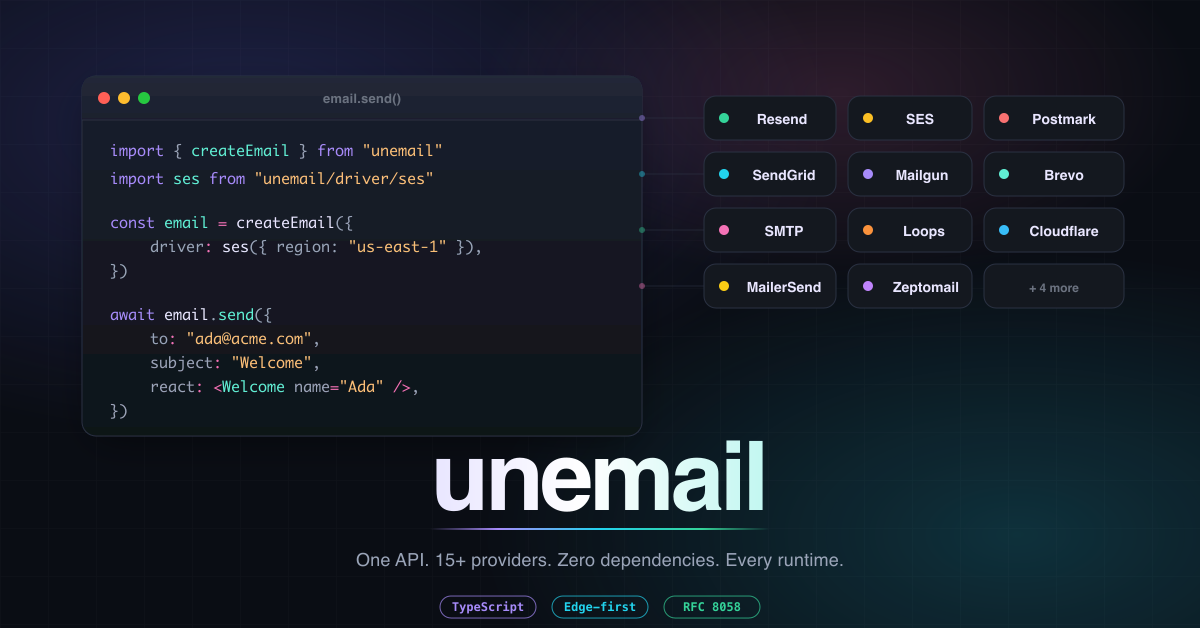
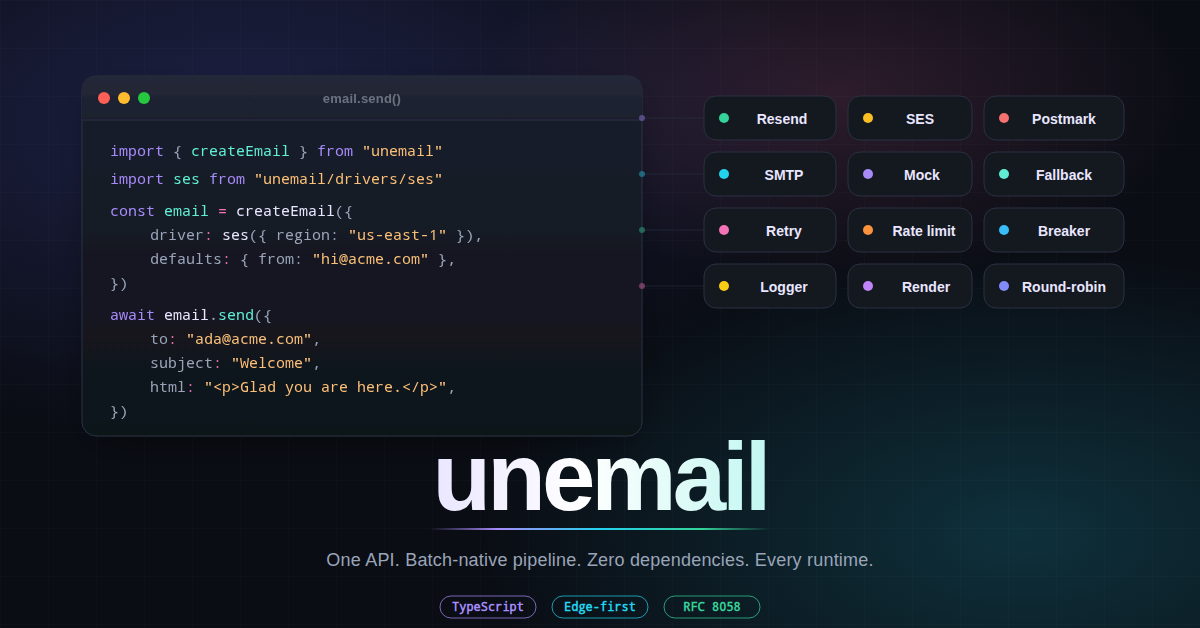
chore: bring the repo's own artifacts up to v1
The cover art is the first thing anyone sees on the README and on npm, and
it still advertised 0.x: it imported from `unemail/driver/ses` (singular),
passed the removed `react:` field, listed eight providers this release does
not ship, and claimed "15+ providers". The snippet is now the v1 API and
would actually run — including `defaults: { from }`, which v1 requires
somewhere. The tiles are the twelve things you can import today, and the
tagline says what the release is rather than how many providers it counts.
cover.png is re-rendered from the SVG rather than left behind at 0.x.

`playground/` went with the 0.x tree, so the oxlint and oxfmt ignore
entries pointed at nothing.

README had no route to docs/architecture.md or docs/drivers.md.

Dev dependencies: typescript 6.0.3 → 7.0.2, which also settles a real
mismatch — the repo declared TS 6 while typechecking with tsgo 7. Also
bumpp 11 → 12, oxfmt 0.55 → 0.66 (reformats nothing), and a newer
native-preview build, re-pinned exactly: a caret range on a prerelease
resolves to a different nightly on a fresh install and the typechecker
stops being reproducible.

Verified after the bumps: lint, format, typecheck, 190 tests, build with
every .d.mts present, bundle budgets, version consistency.

Claude-Session: https://claude.ai/code/session_01GQAPDWLnDrdYHKhou3Ntvb

diff --git a/README.md b/README.md
@@ -360,6 +360,14 @@ list of any of those.
 SMTP needs `node:net` and `node:tls`. Everything else is `fetch` and Web
 Crypto.
 
+## Docs
+
+- [Architecture](./docs/architecture.md) — the pipeline, and why the unit of
+  work is a list
+- [Drivers](./docs/drivers.md) — every option, provider quirks, capability
+  matrix
+- [Migration](./MIGRATION.md) — upgrading from 0.x
+
 ## Upgrading from 0.x
 
 v1 is a rewrite. See [MIGRATION.md](./MIGRATION.md).
